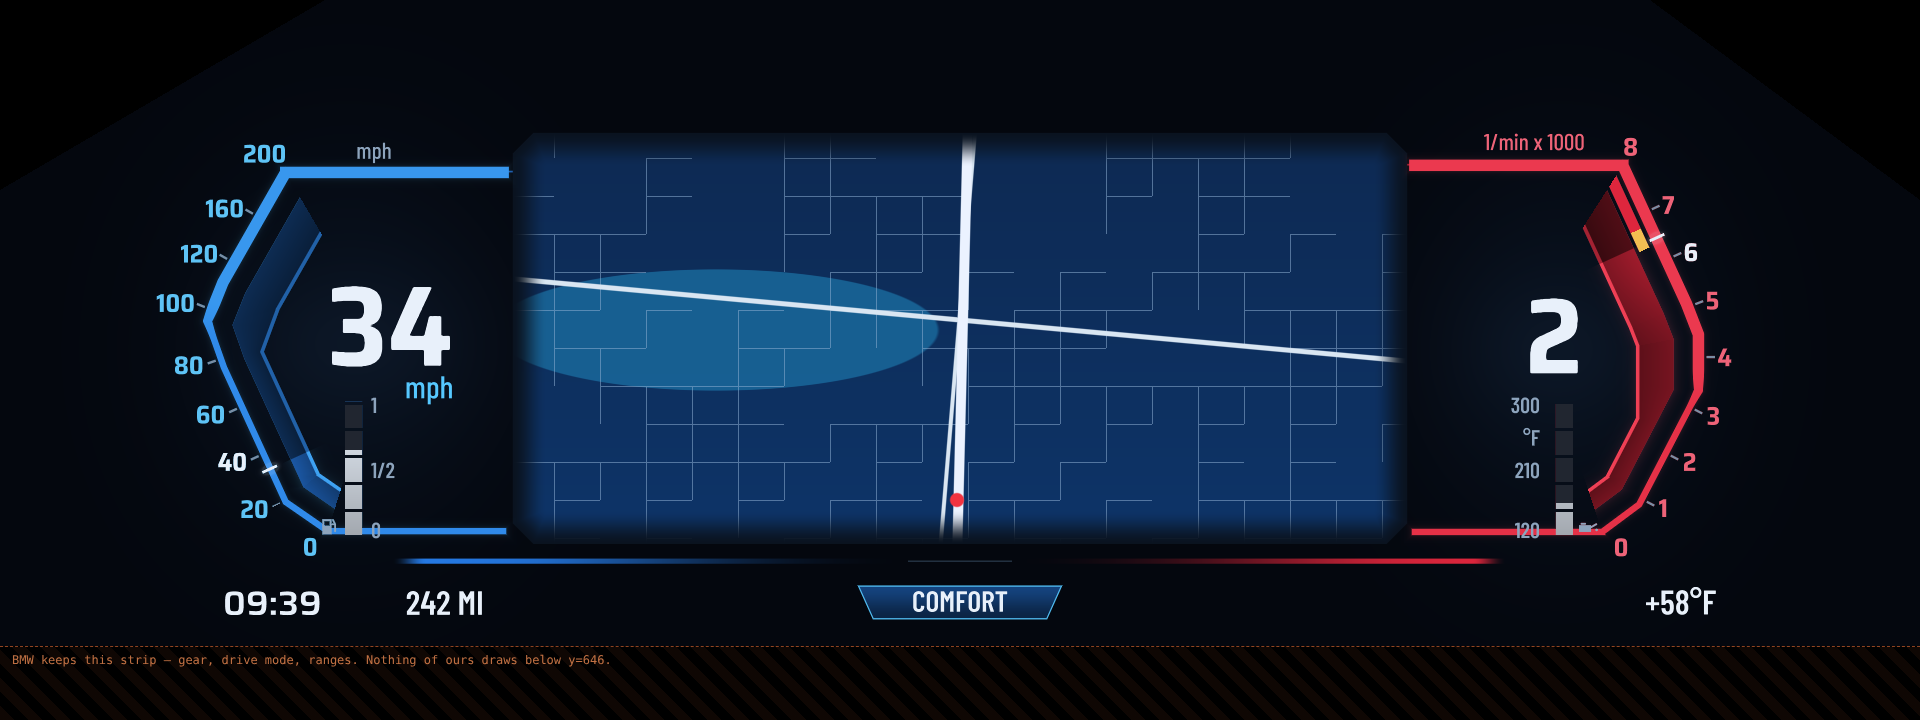
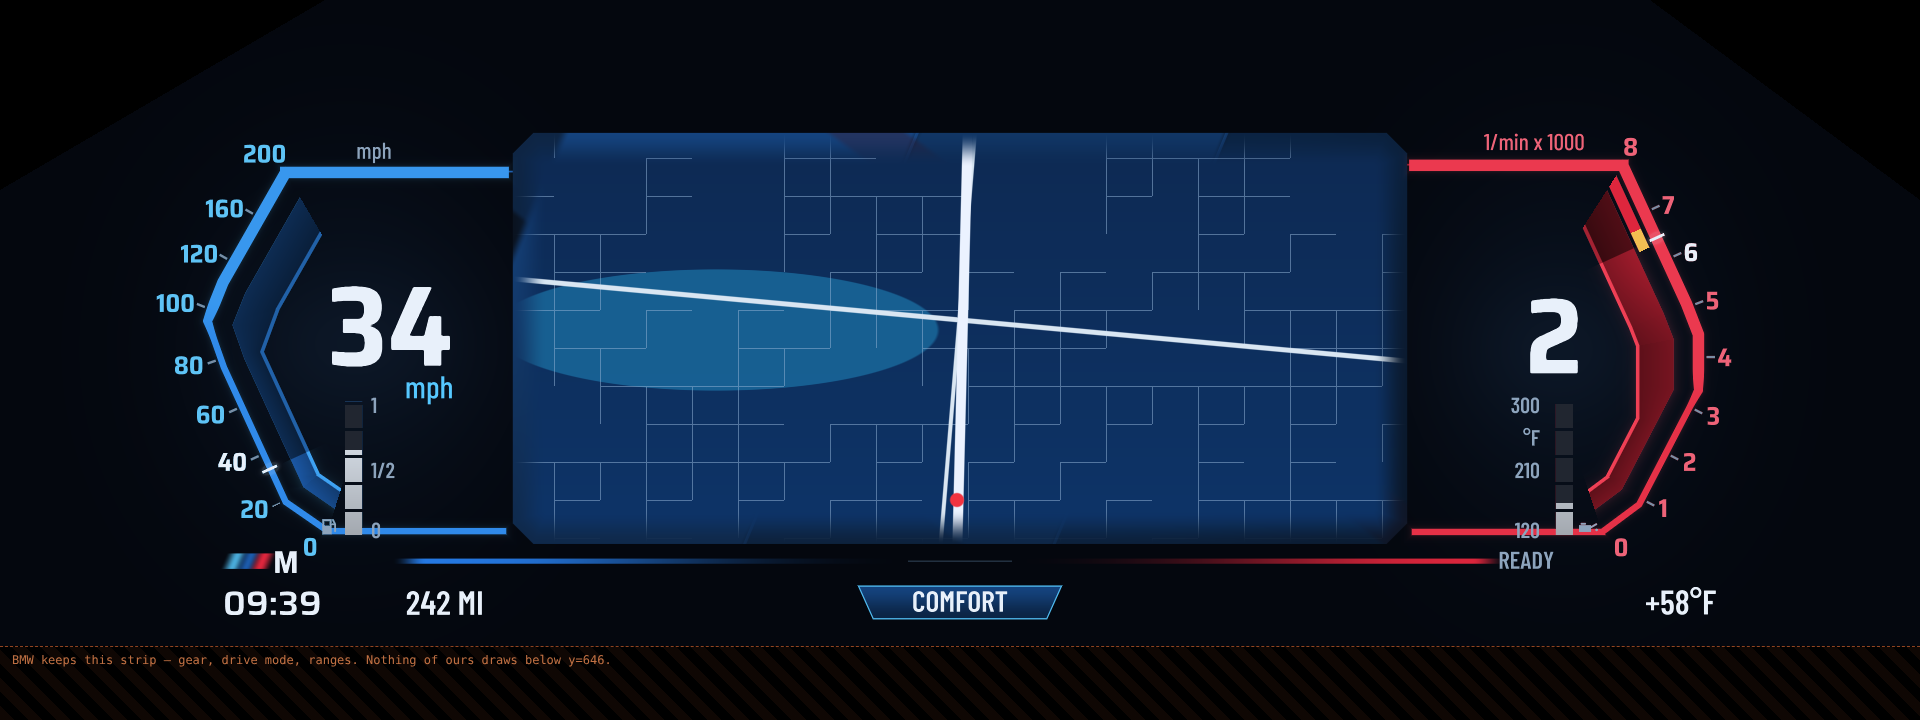
Fill the M centre with the angular planes, and add the badge
The "unbranded" line in the guide was meant for the TunedByWali style, not
this one, so the M style now looks like the factory cluster:

- the centre at rest draws the angular navy planes the car shows there,
  with crisp facet edges and a second set crossing them; they go with the
  matte, so the Waze map or the camera replaces them as the window opens
  and nothing of ours is left over the picture
- the stripe badge sits at the bottom left of the speed gauge
- READY shows by the rev gauge once the engine is turning

The repository's unofficial notice stands, and the README says plainly
that the style imitates BMW's own look.

Claude-Session: https://claude.ai/code/session_016L48f7z67pV7tiJQVvmj8o

Changed region(s): [[0.25, 0.1833, 0.75, 0.7639], [0.0938, 0.7639, 0.1562, 0.7944], [0.7812, 0.7639, 0.8125, 0.7944]]

diff --git a/apps/mgustyles_toro/shaders_m.js b/apps/mgustyles_toro/shaders_m.js
@@ -211,6 +211,10 @@
         'uniform vec3 u_blueHi;',
         'uniform vec3 u_redHi;',
         'uniform float u_lozenge;',          /* 1: a drive mode to show */
+        'uniform float u_badge;',            /* 1: draw the stripe badge */
+        'float slab(float x, float a, float b) {',
+        '  return smoothstep(a - 7.0, a + 7.0, x) * (1.0 - smoothstep(b - 7.0, b + 7.0, x));',
+        '}',
         'float sdCham(vec2 q, vec2 lo, vec2 hi, float ch) {',
         '  vec2 h = (hi - lo) * 0.5;',
         '  vec2 a = abs(q - (lo + hi) * 0.5);',
@@ -229,7 +233,23 @@
         /* the centre */
         '  float dc = sdCham(q, vec2(' + f(C.x0) + ', ' + f(C.y0) + '), vec2(' + f(C.x1) + ', ' + f(C.y1) + '), ' + f(C.chamfer) + ');',
         '  float inC = covW(dc, aw);',
-        '  col = over(col, u_matte, inC);',
+        /* The centre at rest: angular planes slanting across it, bright at
+           the top and falling away below, as the car draws them. They go
+           with the matte, so the map replaces them as the window opens. */
+        '  float u = (q.x - 960.0) + (q.y - 347.0) * 0.42;',
+        '  float v = clamp((q.y - 108.0) / 478.0, 0.0, 1.0);',
+        '  float fade = (1.0 - 0.58 * v) * (1.0 - 0.40 * smoothstep(240.0, 640.0, u));',
+        '  vec3 mat = u_matte;',
+        '  mat = mix(mat, u_blue * 0.60, 0.95 * slab(u, -560.0, -150.0) * fade);',
+        '  mat = mix(mat, u_blue * 0.46, 0.95 * slab(u, -150.0, 210.0) * fade);',
+        '  mat = mix(mat, u_blue * 0.30, 0.95 * slab(u, 210.0, 620.0) * fade);',
+        /* the crisp edges between the planes */
+        '  mat += u_blue * 0.16 * fade * (covW(abs(u + 150.0) - 1.8, aw) + covW(abs(u - 210.0) - 1.8, aw));',
+        /* a shallower second set, crossing the first */
+        '  float w2 = (q.x - 960.0) - (q.y - 347.0) * 1.35;',
+        '  mat = mix(mat, u_blue * 0.52, 0.42 * slab(w2, -320.0, 170.0) * fade);',
+        '  mat = mix(mat, u_red * 0.30, 0.30 * slab(w2, 170.0, 260.0) * fade);',
+        '  col = over(col, mat, inC);',
         '',
         /* restrained top and bottom accents, fading towards the middle */
         '  float topL = covW(abs(q.y - 153.0) - 1.0, aw) * step(336.0, q.x) * (1.0 - smoothstep(336.0, 760.0, q.x));',
@@ -250,6 +270,14 @@
         '  float lzIn = covW(lzd, aw) * u_lozenge;',
         '  col = over(col, mix(u_blue * 0.30, u_blue * 0.55, smoothstep(19.0, -19.0, lz.y)), lzIn);',
         '  col = over(col, u_blueHi, covW(abs(lzd) - 0.8, aw) * u_lozenge * 0.9);',
+        '',
+        /* the badge: three slanted stripes, the M letter sits beside them */
+        '  vec2 bq = q - vec2(150.0, 606.0);',
+        '  float bu = bq.x + bq.y * 0.42;',
+        '  float inB = covW(abs(bq.y) - 9.0, aw) * u_badge;',
+        '  col = over(col, u_blueHi * 0.85, inB * slab(bu, -40.0, -26.0));',
+        '  col = over(col, u_blue * 0.75, inB * slab(bu, -24.0, -10.0));',
+        '  col = over(col, u_red, inB * slab(bu, -8.0, 6.0));',
         '',
         '  float reveal = smoothstep(0.0, ' + f(C.feather) + ', -dc);',
         '  float alpha = 1.0 - u_open * reveal;',

diff --git a/src/shaders/mcluster.js b/src/shaders/mcluster.js
@@ -210,6 +210,10 @@
         'uniform vec3 u_blueHi;',
         'uniform vec3 u_redHi;',
         'uniform float u_lozenge;',          /* 1: a drive mode to show */
+        'uniform float u_badge;',            /* 1: draw the stripe badge */
+        'float slab(float x, float a, float b) {',
+        '  return smoothstep(a - 7.0, a + 7.0, x) * (1.0 - smoothstep(b - 7.0, b + 7.0, x));',
+        '}',
         'float sdCham(vec2 q, vec2 lo, vec2 hi, float ch) {',
         '  vec2 h = (hi - lo) * 0.5;',
         '  vec2 a = abs(q - (lo + hi) * 0.5);',
@@ -228,7 +232,23 @@
         /* the centre */
         '  float dc = sdCham(q, vec2(' + f(C.x0) + ', ' + f(C.y0) + '), vec2(' + f(C.x1) + ', ' + f(C.y1) + '), ' + f(C.chamfer) + ');',
         '  float inC = covW(dc, aw);',
-        '  col = over(col, u_matte, inC);',
+        /* The centre at rest: angular planes slanting across it, bright at
+           the top and falling away below, as the car draws them. They go
+           with the matte, so the map replaces them as the window opens. */
+        '  float u = (q.x - 960.0) + (q.y - 347.0) * 0.42;',
+        '  float v = clamp((q.y - 108.0) / 478.0, 0.0, 1.0);',
+        '  float fade = (1.0 - 0.58 * v) * (1.0 - 0.40 * smoothstep(240.0, 640.0, u));',
+        '  vec3 mat = u_matte;',
+        '  mat = mix(mat, u_blue * 0.60, 0.95 * slab(u, -560.0, -150.0) * fade);',
+        '  mat = mix(mat, u_blue * 0.46, 0.95 * slab(u, -150.0, 210.0) * fade);',
+        '  mat = mix(mat, u_blue * 0.30, 0.95 * slab(u, 210.0, 620.0) * fade);',
+        /* the crisp edges between the planes */
+        '  mat += u_blue * 0.16 * fade * (covW(abs(u + 150.0) - 1.8, aw) + covW(abs(u - 210.0) - 1.8, aw));',
+        /* a shallower second set, crossing the first */
+        '  float w2 = (q.x - 960.0) - (q.y - 347.0) * 1.35;',
+        '  mat = mix(mat, u_blue * 0.52, 0.42 * slab(w2, -320.0, 170.0) * fade);',
+        '  mat = mix(mat, u_red * 0.30, 0.30 * slab(w2, 170.0, 260.0) * fade);',
+        '  col = over(col, mat, inC);',
         '',
         /* restrained top and bottom accents, fading towards the middle */
         '  float topL = covW(abs(q.y - 153.0) - 1.0, aw) * step(336.0, q.x) * (1.0 - smoothstep(336.0, 760.0, q.x));',
@@ -249,6 +269,14 @@
         '  float lzIn = covW(lzd, aw) * u_lozenge;',
         '  col = over(col, mix(u_blue * 0.30, u_blue * 0.55, smoothstep(19.0, -19.0, lz.y)), lzIn);',
         '  col = over(col, u_blueHi, covW(abs(lzd) - 0.8, aw) * u_lozenge * 0.9);',
+        '',
+        /* the badge: three slanted stripes, the M letter sits beside them */
+        '  vec2 bq = q - vec2(150.0, 606.0);',
+        '  float bu = bq.x + bq.y * 0.42;',
+        '  float inB = covW(abs(bq.y) - 9.0, aw) * u_badge;',
+        '  col = over(col, u_blueHi * 0.85, inB * slab(bu, -40.0, -26.0));',
+        '  col = over(col, u_blue * 0.75, inB * slab(bu, -24.0, -10.0));',
+        '  col = over(col, u_red, inB * slab(bu, -8.0, 6.0));',
         '',
         '  float reveal = smoothstep(0.0, ' + f(C.feather) + ', -dc);',
         '  float alpha = 1.0 - u_open * reveal;',

diff --git a/apps/mgustyles_toro/theme_track.js b/apps/mgustyles_toro/theme_track.js
@@ -116,7 +116,7 @@
                     u_open: c.mode === 'map' || c.mode === 'camera' ? c.open : 0,
                     u_outside: K.outside, u_recess: K.recess, u_matte: K.matte, u_rule: K.rule,
                     u_blue: K.blue, u_red: K.red, u_blueHi: K.blueHi, u_redHi: K.redHi,
-                    u_lozenge: s.modeLabel ? 1 : 0
+                    u_lozenge: s.modeLabel ? 1 : 0, u_badge: 1
                 };
             }
         });
@@ -223,6 +223,15 @@
                         { str: '210', x: X(1636), y: Y(500) }, { str: '120', x: X(1636), y: Y(570) }]
                      : [{ str: '150', x: X(1636), y: Y(424) }, { str: '°C', x: X(1636), y: Y(462) },
                         { str: '100', x: X(1636), y: Y(500) }, { str: '50', x: X(1636), y: Y(570) }]);
+
+        /* the M mark beside the badge stripes, and the readiness word */
+        statics('badgeM', 30, box(150, 586, 230, 626),
+            { face: 'mnum', size: D(26 / CAP), align: 'left', baseline: 'middle', color: K.digits },
+            [{ str: 'M', x: X(162), y: Y(606) }]);
+        txt('ready', 30, box(1520, 586, 1660, 626),
+            { face: 'label', size: D(20 / CAP), align: 'right', x: X(1652), y: Y(614),
+              color: K.secondary },
+            function (s) { return (s.rpm || 0) > 0 ? 'READY' : null; });
 
         /* --------------------------------------------- lower status rail */
         var FOOT = 668;

diff --git a/src/theme/track.js b/src/theme/track.js
@@ -115,7 +115,7 @@
                     u_open: c.mode === 'map' || c.mode === 'camera' ? c.open : 0,
                     u_outside: K.outside, u_recess: K.recess, u_matte: K.matte, u_rule: K.rule,
                     u_blue: K.blue, u_red: K.red, u_blueHi: K.blueHi, u_redHi: K.redHi,
-                    u_lozenge: s.modeLabel ? 1 : 0
+                    u_lozenge: s.modeLabel ? 1 : 0, u_badge: 1
                 };
             }
         });
@@ -222,6 +222,15 @@
                         { str: '210', x: X(1636), y: Y(500) }, { str: '120', x: X(1636), y: Y(570) }]
                      : [{ str: '150', x: X(1636), y: Y(424) }, { str: '°C', x: X(1636), y: Y(462) },
                         { str: '100', x: X(1636), y: Y(500) }, { str: '50', x: X(1636), y: Y(570) }]);
+
+        /* the M mark beside the badge stripes, and the readiness word */
+        statics('badgeM', 30, box(150, 586, 230, 626),
+            { face: 'mnum', size: D(26 / CAP), align: 'left', baseline: 'middle', color: K.digits },
+            [{ str: 'M', x: X(162), y: Y(606) }]);
+        txt('ready', 30, box(1520, 586, 1660, 626),
+            { face: 'label', size: D(20 / CAP), align: 'right', x: X(1652), y: Y(614),
+              color: K.secondary },
+            function (s) { return (s.rpm || 0) > 0 ? 'READY' : null; });
 
         /* --------------------------------------------- lower status rail */
         var FOOT = 668;

diff --git a/README.md b/README.md
@@ -125,8 +125,10 @@ facets) or switches to:
 Built to the **M iDrive 8 cluster guide**
 ([docs/M-IDRIVE8-BRIEF.md](docs/M-IDRIVE8-BRIEF.md)) and its photographs:
 the guide's rail paths, colours and anchors, fitted onto the iDrive 7
-panel. Unbranded, with original figures (Saira Semi Condensed, SIL OFL) and an
-original fuel pump and oil can drawn in the shader.
+panel. It is drawn to look like the factory M cluster, badge and all; the figures
+are Saira Semi Condensed (SIL OFL) and the fuel pump and oil can are drawn
+in the shader. **Unofficial, and nothing to do with BMW AG** — see the
+notice at the top.
 In settings and the code it is the style `track`.
 
 ![M, driving](docs/img/track.png)
@@ -152,14 +154,15 @@ outside the rail, and the numeral at the marker turns white.
 - **Centre:** one chamfered window, feathered over 40 design units exactly
   as the guide's checkpoint table says (`test/track.test.js`); it opens
   over 180 ms and closes over 110 ms, and nothing outside it ever moves or
-  fades. At rest it is a quiet matte.
+  fades. At rest it shows the angular navy planes the car draws there; the
+  map or camera replaces them as the window opens.
 
 | Centre shows | What you see |
 |---|---|
 | **Waze map** | the phone's map from *Maps on cluster* — and the turn card when no map is up |
 | **Turn View camera** | the front camera from IterioDev's *Turn View* |
 | **Turn card only** | our own arrow, distance and instruction for the next turn |
-| **Nothing** | the quiet matte |
+| **Nothing** | the angular centre graphic alone |
 
 ![M with the Waze map in the centre (a stand-in map in the preview)](docs/img/track-waze.png)
 
